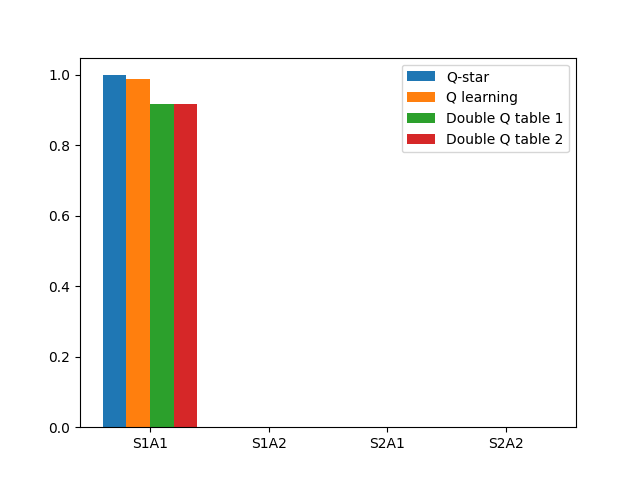
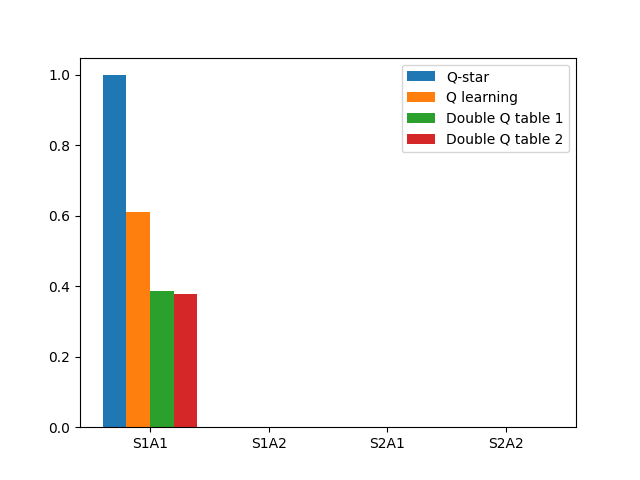
added pessimistic algorithm and plotting

Changed region(s): [[0.1875, 0.1562, 0.3125, 0.625]]

diff --git a/run_dp_Q_DQ.py b/run_dp_Q_DQ.py
@@ -42,6 +42,41 @@ def plot_overestimation(q_star, Q, DQ1, DQ2):
     plt.savefig('q_dq.png')
     plt.show()
 
+def get_overestimation_time_method(q_star, vl, steps, DQ=False):
+    over = np.zeros(steps)
+    sum = 0
+
+    for i in range(steps):
+        sum_episode = 0
+        sum_episode_qstar = 0
+        for j in range( len(vl[i][0]) ):
+            if DQ:
+                qval = (vl[i][2][j] + vl[i][3][j]) / 2.0
+            else:
+                qval = vl[i][2][j]
+            sum_episode += qval
+            sum_episode_qstar += q_star[ vl[i][0][j], vl[i][1][j] ]
+        avg_episode = sum_episode / len(vl[i][0])
+        avg_episode_qstar = sum_episode_qstar / len(vl[i][0])
+
+        over[i] = avg_episode - avg_episode_qstar
+
+    return over
+
+
+def plot_overestimation_time(q_star, vlQ, vlDQ, vlPQ, config):
+    over_ql = get_overestimation_time_method(q_star, vlQ, config.q_learning.steps)
+    over_dql = get_overestimation_time_method(q_star, vlDQ, config.dq_learning.steps, True)
+    over_pq = get_overestimation_time_method(q_star, vlPQ, config.pessimistic_q_learning.steps)
+
+    plt.figure()
+    plt.plot(np.arange(config.q_learning.steps), over_ql, label="Q learning")
+    plt.plot(np.arange(config.dq_learning.steps), over_dql, label="DQ learning")
+    plt.plot(np.arange(config.pessimistic_q_learning.steps), over_pq, label="PQ learning")
+    plt.legend()
+    plt.show()
+
+
 
 if __name__ == '__main__':
 
@@ -86,7 +121,7 @@ if __name__ == '__main__':
     print('Q Learning')
     Q = np.zeros(shape=(env.spec.nS,env.spec.nA))
     print('Initial Q values\n{}'.format(Q))
-    Q = Q_learning(env, config.q_learning.steps, config.q_learning.alpha, config.gamma, config.q_learning.epsilon, Q, rng)
+    Q, vlQ = Q_learning(env, config.q_learning.steps, config.q_learning.alpha, config.gamma, config.q_learning.epsilon, Q, rng)
     print('Estimated Q Values\n{}'.format(Q))
     print()
 
@@ -95,8 +130,16 @@ if __name__ == '__main__':
     DQ1 = np.zeros(shape=(env.spec.nS,env.spec.nA))
     DQ2 = np.zeros(shape=(env.spec.nS,env.spec.nA))
     print('Initial Q values\nQ1: {}\nQ2: {}'.format(DQ1, DQ2))
-    DQ1, DQ2 = DoubleQ(env, config.dq_learning.steps, config.dq_learning.alpha, config.gamma, config.dq_learning.epsilon, DQ1, DQ2, rng)
+    DQ1, DQ2, vlDQ = DoubleQ(env, config.dq_learning.steps, config.dq_learning.alpha, config.gamma, config.dq_learning.epsilon, DQ1, DQ2, rng)
     print('Estimated Q1 Values\n{}\nEstimated Q2 Values\n{}'.format(DQ1, DQ2))
     print()
 
+    print('Pessimistic Q Learning')
+    PQ = np.zeros(shape=(env.spec.nS,env.spec.nA))
+    print('Initial Q values\nQ: {}'.format(PQ))
+    PQ, vlPQ = PessimisticQ(env, config.pessimistic_q_learning.steps, config.pessimistic_q_learning.alpha, config.gamma, config.pessimistic_q_learning.epsilon, config.pessimistic_q_learning.pessimism_coeff, PQ, rng)
+    print('Estimated PQ Values\n{}\n'.format(PQ))
+    print()
+
+    plot_overestimation_time(q_star, vlQ, vlDQ, vlPQ, config)
     plot_overestimation(q_star, Q, DQ1, DQ2)

diff --git a/algos.py b/algos.py
@@ -77,20 +77,27 @@ def Q_learning(env, n:int, alpha:float, gamma:float, epsilon:float, Q:np.array, 
     Q[terminal, :] = 0
 
     pi = EGPolicy(Q, epsilon, rng)
-
+    vl = []
     for i in tqdm(range(n)):
         s = env.reset()
         done = False
+        sl = []
+        al = []
+        ql = []
         while not done:
             a = pi.action(s)
             s1, r, done = env.step(a)
 
+            sl.append(s)
+            al.append(a)
+            ql.append( np.max(Q[s, :]) )
             Q[s,a] += alpha*(r + (gamma*np.max(Q[s1, :]) - Q[s, a]))
             s = s1
             pi.update(Q, epsilon)
-        epsilon *= 0.995
+        epsilon *= 0.95
+        vl.append([sl, al, ql])
 
-    return Q
+    return Q, vl
 
 
 def DoubleQ(env, n:int, alpha:float, gamma:float, epsilon:float, Q1:np.array, Q2:np.array, rng) -> Tuple[np.array,Policy]:
@@ -121,15 +128,25 @@ def DoubleQ(env, n:int, alpha:float, gamma:float, epsilon:float, Q1:np.array, Q2
     Q2[terminal, :] = 0
 
     pi = EGPolicy(Q1, epsilon, rng)
+    vl = []
 
     for i in tqdm(range(n)):
         s = env.reset()
         done = False
+        sl = []
+        al = []
+        ql1 = []
+        ql2 = []
         while not done:
             a = pi.action(s)
             s1, r, done = env.step(a)
 
-            if np.random.rand() < 0.5:
+            sl.append(s)
+            al.append(a)
+            ql1.append( np.max(Q1[s, :]) )
+            ql2.append( np.max(Q2[s, :]) )
+
+            if rng.random() < 0.5:
                 Q1[s,a] += alpha*(r + gamma*Q2[s1, np.argmax(Q1[s1, :])] - Q1[s, a])
             else:
                 Q2[s,a] += alpha*(r + gamma*Q1[s1, np.argmax(Q2[s1, :])] - Q2[s, a])
@@ -137,5 +154,36 @@ def DoubleQ(env, n:int, alpha:float, gamma:float, epsilon:float, Q1:np.array, Q2
             s = s1
             pi.update(Q1, epsilon)
         epsilon *= 0.95
+        vl.append([sl, al, ql1, ql2])
 
-    return Q1, Q2
+    return Q1, Q2, vl
+
+
+def PessimisticQ(env, n:int, alpha:float, gamma:float, epsilon:float, pessimism_coeff:float, PQ:np.array, rng):
+
+    pi = EGPolicy(PQ, epsilon, rng)
+
+    visit = np.zeros(PQ.shape) + 1
+    vl = []
+
+    for i in tqdm(range(n)):
+        s = env.reset()
+        sl = []
+        al = []
+        ql = []
+        done = False
+        while not done:
+            a = pi.action(s)
+            s1, r, done = env.step(a)
+            sl.append(s)
+            al.append(a)
+            ql.append( np.max(PQ[s, :]) )
+
+            visit[s, a] += 1
+            PQ[s,a] += alpha*(r + gamma*np.max(PQ[s1, :]) - PQ[s, a] - (pessimism_coeff / visit[s, a]) )
+            s = s1
+            pi.update(PQ, epsilon)
+        epsilon *= 0.95
+        vl.append([sl, al, ql])
+
+    return PQ, vl
